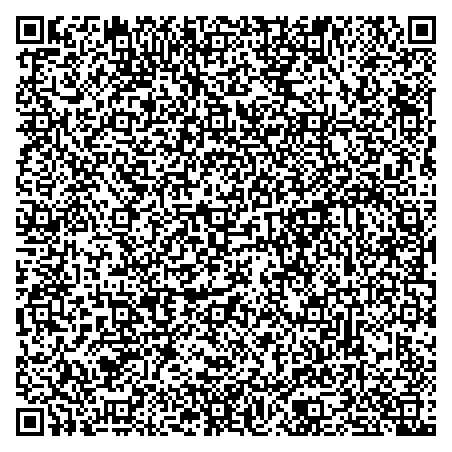
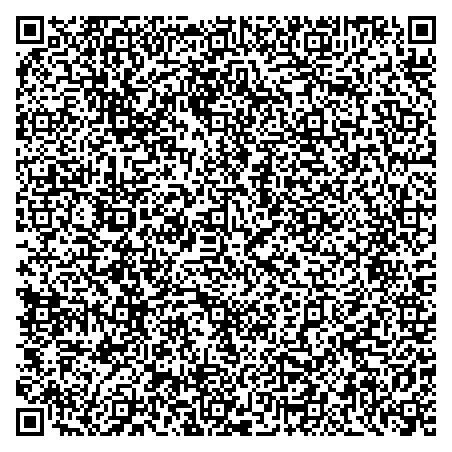
0.0.4

diff --git a/url.js b/url.js
@@ -15,10 +15,17 @@ if (!url) {
 const filename = slugify(url) + '.png';
 
 // Génère le QR code correspondant à l'URL
-qr.toFile(filename, url, (err) => {
+qr.toFile(filename, url, {
+    color: {
+        dark: '#000000FF',  // couleur de premier plan : noir opaque
+        light: '#00000000'  // couleur d'arrière-plan : transparent
+    },
+    errorCorrectionLevel: 'H'
+}, (err) => {
     if (err) {
         console.error(err);
         process.exit(1);
     }
     console.log(`Le fichier ${filename} a été créé.`);
 });
+

diff --git a/vcard.js b/vcard.js
@@ -17,6 +17,10 @@ card.workAddress.label = contact.workAddress;
 const vcardString = card.getFormattedString();
 
 qr.toFile(`${contact.firstName}_${contact.lastName}.png`, vcardString, {
+    color: {
+        dark: '#000000FF',  // couleur de premier plan : noir opaque
+        light: '#00000000'  // couleur d'arrière-plan : transparent
+    },
     errorCorrectionLevel: 'H'
 }, (err) => {
     if (err) {
